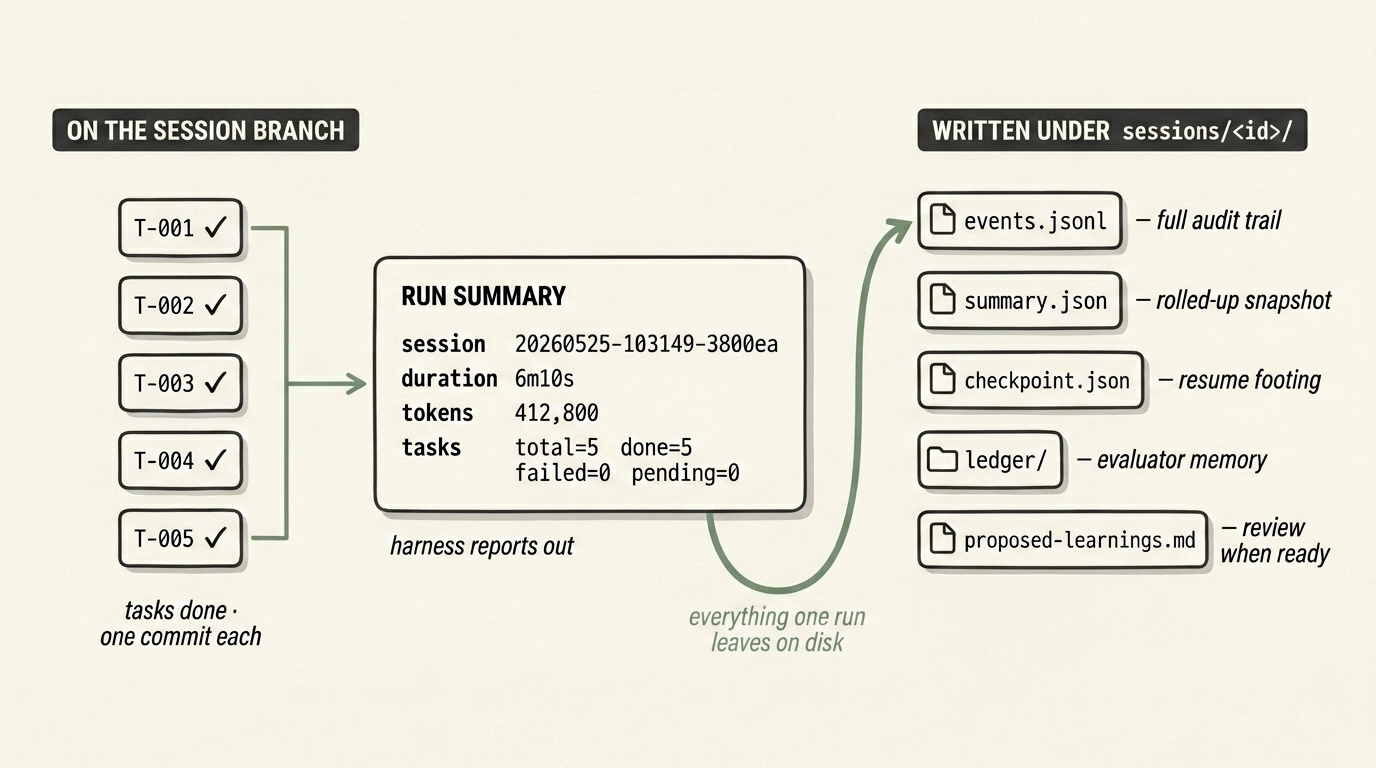
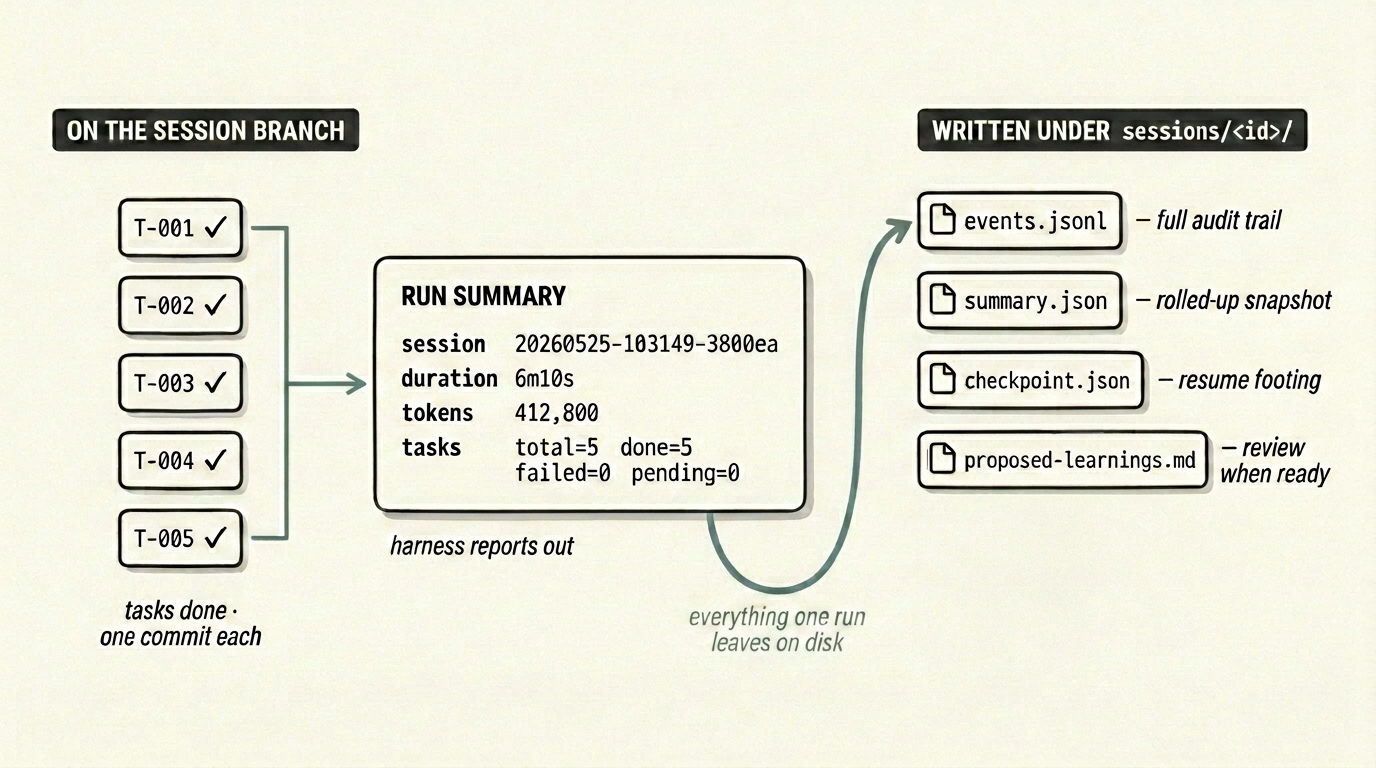
docs: align session-end diagram with anatomy (drop ledger/ from outputs)
ledger/ is working memory — written and read back — so it belongs in the
anatomy diagram's WORKING MEMORY row, not in session-end's "written under
sessions/<id>/" output stack alongside the report-out artifacts.
Regenerated session-end.jpg without the ledger/ chip and synced the alt
text + caption in running-the-demo.md to the four remaining outputs
(events.jsonl, summary.json, checkpoint.json, proposed-learnings.md).

diff --git a/docs/getting-started/running-the-demo.md b/docs/getting-started/running-the-demo.md
@@ -65,9 +65,9 @@ A clean run ends with every task in `prd.json` marked `done` and a commit-per-ta
 
 Once every task in `prd.json` is `done`, the harness closes out the final task and prints `all tasks complete` followed by a run summary:
 
-![A three-region diagram of Tilth's end-of-session state. Left region, under the label "ON THE SESSION BRANCH": a vertical stack of five rounded rectangles, each a monospace task id with a checkmark — T-001 through T-005 — with the italic caption "tasks done · one commit each". Centre region: a rounded panel titled "RUN SUMMARY" in bold sans-serif all caps, with four monospace key/value rows — session 20260525-103149-3800ea, duration 6m10s, tokens 412,800, tasks total=5 done=5 failed=0 pending=0 — and the italic caption "harness reports out". Right region, under the label "WRITTEN UNDER sessions/<id>/": a vertical stack of five document-icon chips, each a monospace filename with a short italic role note — events.jsonl ("full audit trail"), summary.json ("rolled-up snapshot"), checkpoint.json ("resume footing"), ledger/ ("evaluator memory"), proposed-learnings.md ("review when ready"). A sage-green arrow runs from the task stack into the RUN SUMMARY panel; a second sage-green arrow curves from the panel up into the right-hand stack, labelled "everything one run leaves on disk".](../assets/session-end.jpg)
+![A three-region diagram of Tilth's end-of-session state. Left region, under the label "ON THE SESSION BRANCH": a vertical stack of five rounded rectangles, each a monospace task id with a checkmark — T-001 through T-005 — with the italic caption "tasks done · one commit each". Centre region: a rounded panel titled "RUN SUMMARY" in bold sans-serif all caps, with four monospace key/value rows — session 20260525-103149-3800ea, duration 6m10s, tokens 412,800, tasks total=5 done=5 failed=0 pending=0 — and the italic caption "harness reports out". Right region, under the label "WRITTEN UNDER sessions/<id>/": a vertical stack of four document-icon chips, each a monospace filename with a short italic role note — events.jsonl ("full audit trail"), summary.json ("rolled-up snapshot"), checkpoint.json ("resume footing"), proposed-learnings.md ("review when ready"). A sage-green arrow runs from the task stack into the RUN SUMMARY panel; a second sage-green arrow curves from the panel up into the right-hand stack, labelled "everything one run leaves on disk".](../assets/session-end.jpg)
 
-*A clean ending. Every task is committed on the session branch (left); the run summary tallies what happened (centre); and the full set of artifacts the run wrote under `sessions/<id>/` — the event log, the rolled-up summary, the resume checkpoint, the evaluator ledger, and any proposed learnings — sits on the right, outside the worktree for you to read, resume from, or review by hand. AGENTS.md is never touched by the run.*
+*A clean ending. Every task is committed on the session branch (left); the run summary tallies what happened (centre); and the artifacts the run wrote under `sessions/<id>/` — the event log, the rolled-up summary, the resume checkpoint, and any proposed learnings — sit on the right, outside the worktree for you to read, resume from, or review by hand. AGENTS.md is never touched by the run.*
 {: .caption }
 
 To inspect what just got committed: